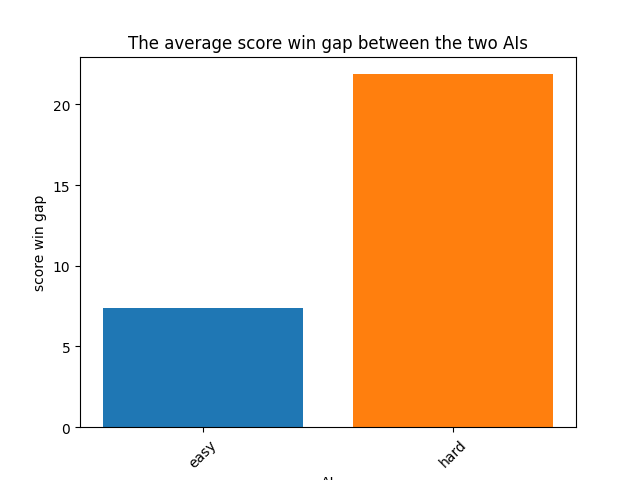
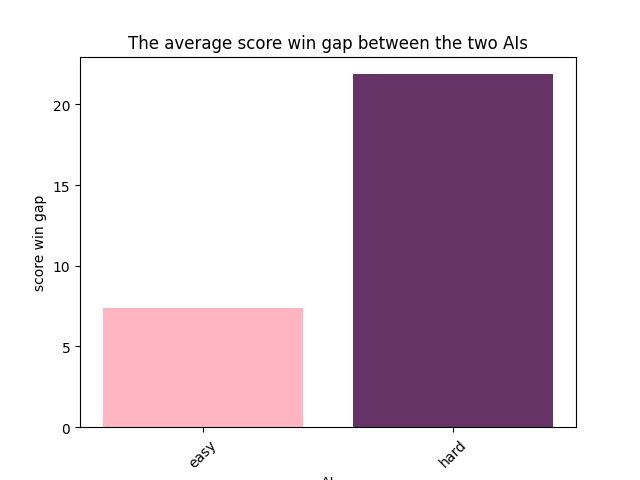
-change style graphs

diff --git a/src/performance/performance.py b/src/performance/performance.py
@@ -3,7 +3,7 @@
 import matplotlib.pyplot as plt
 
 dict_ai = {0: 'easy', 1: 'normal', 2: 'hard'}
-dict_ai_color = {0: '#1f77b4', 1: '#2ca02c', 2: '#ff7f0e'}
+dict_ai_color = {0: '#FFB6C1', 1: '#BAA8A8', 2: '#663366'}
 draw_color = '#808080'
 
 def get_wins_result_tournament(file_path, first_ai, second_ai):
@@ -30,7 +30,7 @@ def get_wins_result_tournament(file_path, first_ai, second_ai):
         
         total_matches += 1
         
-    return (total_matches, total_wins_first_ai, total_wins_second_ai, total_draws)
+    return total_matches, total_wins_first_ai, total_wins_second_ai, total_draws
         
 def draw_circle_graph(first_ai, second_ai, total_matches, total_wins_first_ai, total_wins_second_ai, total_draws):
     """draw a circle graph with the percentage of wins and draws for each AI"""
@@ -44,9 +44,11 @@ def draw_circle_graph(first_ai, second_ai, total_matches, total_wins_first_ai, t
     sizes = [win_percentage_first_ai, win_percentage_second_ai, draw_percentage]
     colors = [dict_ai_color[first_ai], dict_ai_color[second_ai], draw_color ]
     explode = (0.1, 0, 0)  
-    plt.pie(sizes, explode=explode, labels=labels, colors=colors, autopct='%1.1f%%', startangle=140)
+    plt.pie(sizes, explode=explode, labels=labels, colors=colors, autopct='%1.1f%%', textprops={'color': '#000000'}, startangle=140)
     plt.axis('equal')  
     plt.title('AI Wins Percentage'+ '\n' + dict_ai[first_ai] + ' vs ' + dict_ai[second_ai] + ' - ' + str(total_matches) + ' matches')
+    
+    
     plt.show()
     
 def get_average_score_per_game(file_path, first_ai, second_ai):
@@ -90,7 +92,9 @@ def plot_average_score_per_game(first_ai, second_ai, file_path):
     plt.show()
 
 # Example usage
-first_ai = 0 
-second_ai = 1
+first_ai = 1
+second_ai = 2
 file_path = 'src/performance/'+dict_ai[first_ai]+"_vs_"+dict_ai[second_ai]+'.txt'
 plot_average_score_per_game(first_ai, second_ai, file_path)
+# total_match, average_win_score_first_ai, average_win_score_second_ai, total_draw = get_wins_result_tournament(file_path, first_ai, second_ai)
+# draw_circle_graph(first_ai, second_ai,total_match , average_win_score_first_ai, average_win_score_second_ai, total_draw)
